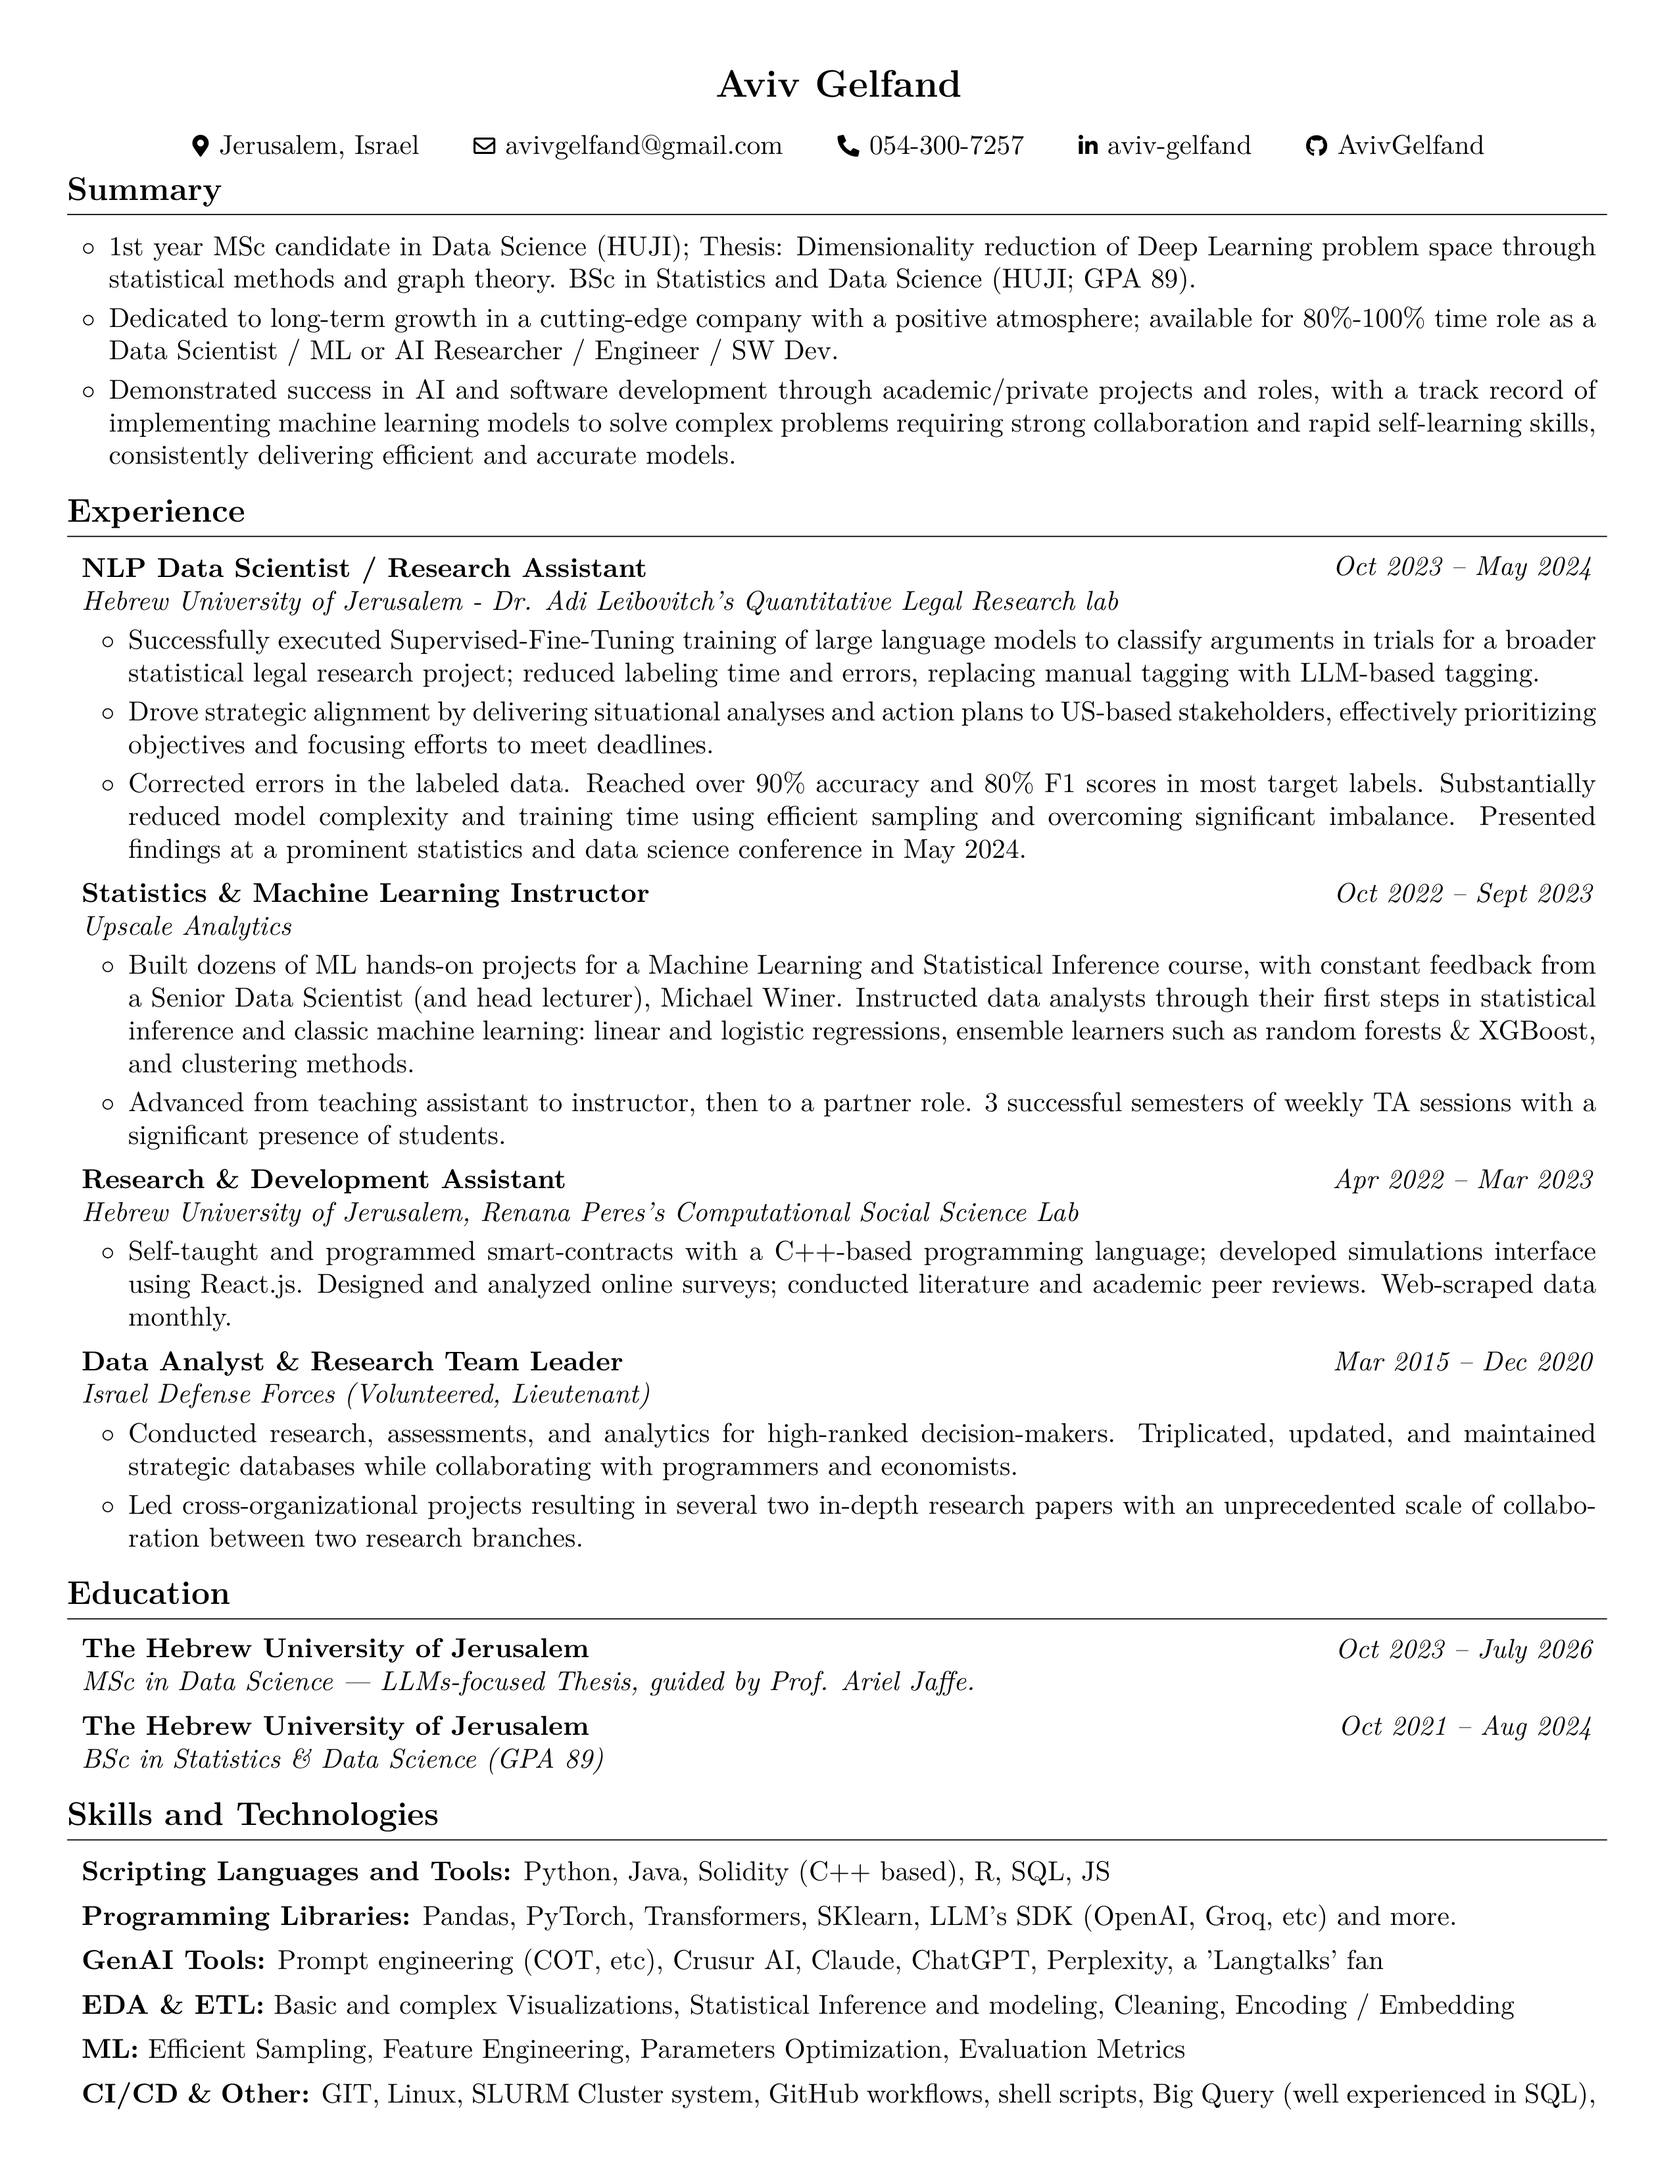
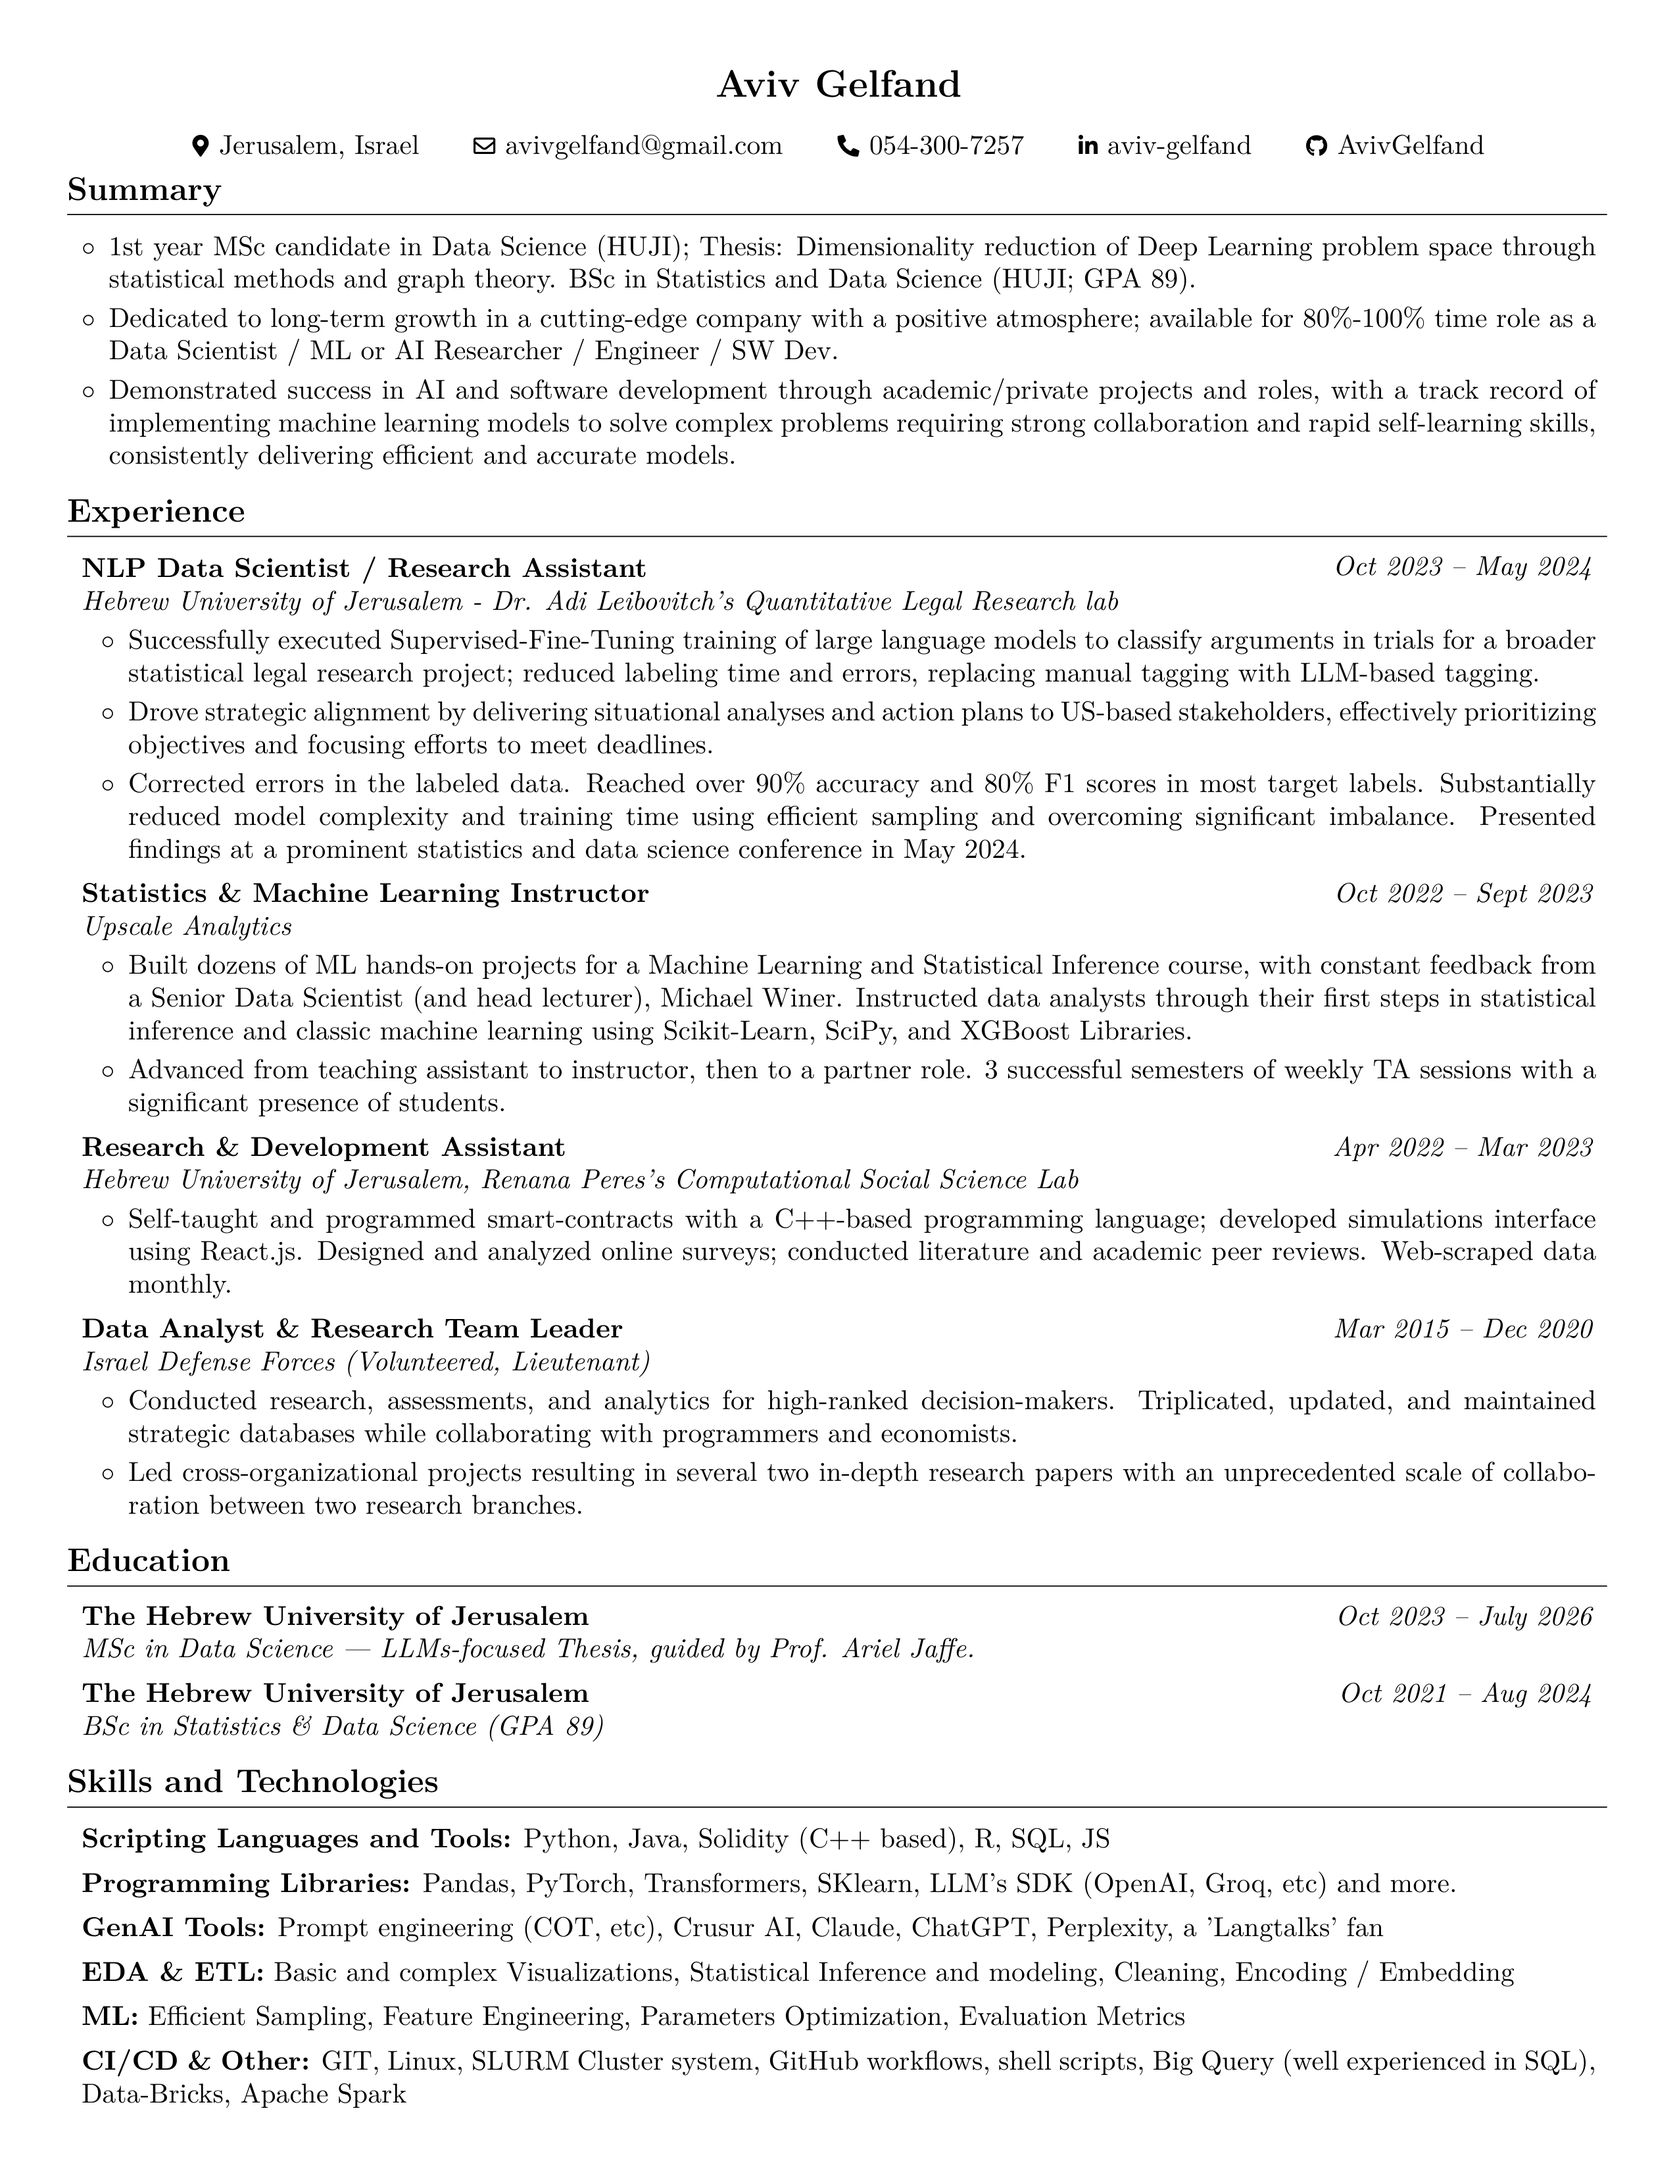
Render the latest CV

Changed region(s): [[0.031, 0.4682, 0.9604, 0.9676], [0.8984, 0.7179, 0.9604, 0.8115], [0.8055, 0.7179, 0.8675, 0.8115]]

diff --git a/Aviv_Gelfand_CV.html b/Aviv_Gelfand_CV.html
@@ -57,7 +57,7 @@
         <h2>Upscale Analytics, Statistics &amp; Machine Learning Instructor</h2>
         <ul>
         <li>Oct 2022 – Sept 2023</li>
-        <li>Built dozens of ML hands-on projects for a Machine Learning and Statistical Inference course, with constant feedback from a Senior Data Scientist (and head lecturer), Michael Winer. Instructed data analysts through their first steps in statistical inference and classic machine learning$:$ linear and logistic regressions, ensemble learners such as random forests &amp; XGBoost, and clustering methods.</li>
+        <li>Built dozens of ML hands-on projects for a Machine Learning and Statistical Inference course, with constant feedback from a Senior Data Scientist (and head lecturer), Michael Winer. Instructed data analysts through their first steps in statistical inference and classic machine learning using Scikit-Learn, SciPy, and XGBoost Libraries.</li>
         <li>Advanced from teaching assistant to instructor, then to a partner role. 3 successful semesters of weekly TA sessions with a significant presence of students.</li>
         </ul>
         <h2>Hebrew University of Jerusalem, Renana Peres's Computational Social Science Lab, Research &amp; Development Assistant</h2>

diff --git a/Aviv_Gelfand_CV.tex b/Aviv_Gelfand_CV.tex
@@ -229,7 +229,7 @@
         \vspace{0.08 cm}
         \begin{onecolentry}
             \begin{highlights}
-                \item Built dozens of ML hands-on projects for a Machine Learning and Statistical Inference course, with constant feedback from a Senior Data Scientist (and head lecturer), Michael Winer. Instructed data analysts through their first steps in statistical inference and classic machine learning$:$ linear and logistic regressions, ensemble learners such as random forests \& XGBoost, and clustering methods.
+                \item Built dozens of ML hands-on projects for a Machine Learning and Statistical Inference course, with constant feedback from a Senior Data Scientist (and head lecturer), Michael Winer. Instructed data analysts through their first steps in statistical inference and classic machine learning using Scikit-Learn, SciPy, and XGBoost Libraries.
                 \item Advanced from teaching assistant to instructor, then to a partner role. 3 successful semesters of weekly TA sessions with a significant presence of students.
             \end{highlights}
         \end{onecolentry}

diff --git a/README.md b/README.md
@@ -26,7 +26,7 @@
 ## Upscale Analytics, Statistics & Machine Learning Instructor
 
 - Oct 2022 – Sept 2023
-- Built dozens of ML hands-on projects for a Machine Learning and Statistical Inference course, with constant feedback from a Senior Data Scientist (and head lecturer), Michael Winer. Instructed data analysts through their first steps in statistical inference and classic machine learning$:$ linear and logistic regressions, ensemble learners such as random forests & XGBoost, and clustering methods.
+- Built dozens of ML hands-on projects for a Machine Learning and Statistical Inference course, with constant feedback from a Senior Data Scientist (and head lecturer), Michael Winer. Instructed data analysts through their first steps in statistical inference and classic machine learning using Scikit-Learn, SciPy, and XGBoost Libraries.
 - Advanced from teaching assistant to instructor, then to a partner role. 3 successful semesters of weekly TA sessions with a significant presence of students.
 
 ## Hebrew University of Jerusalem, Renana Peres's Computational Social Science Lab, Research & Development Assistant
